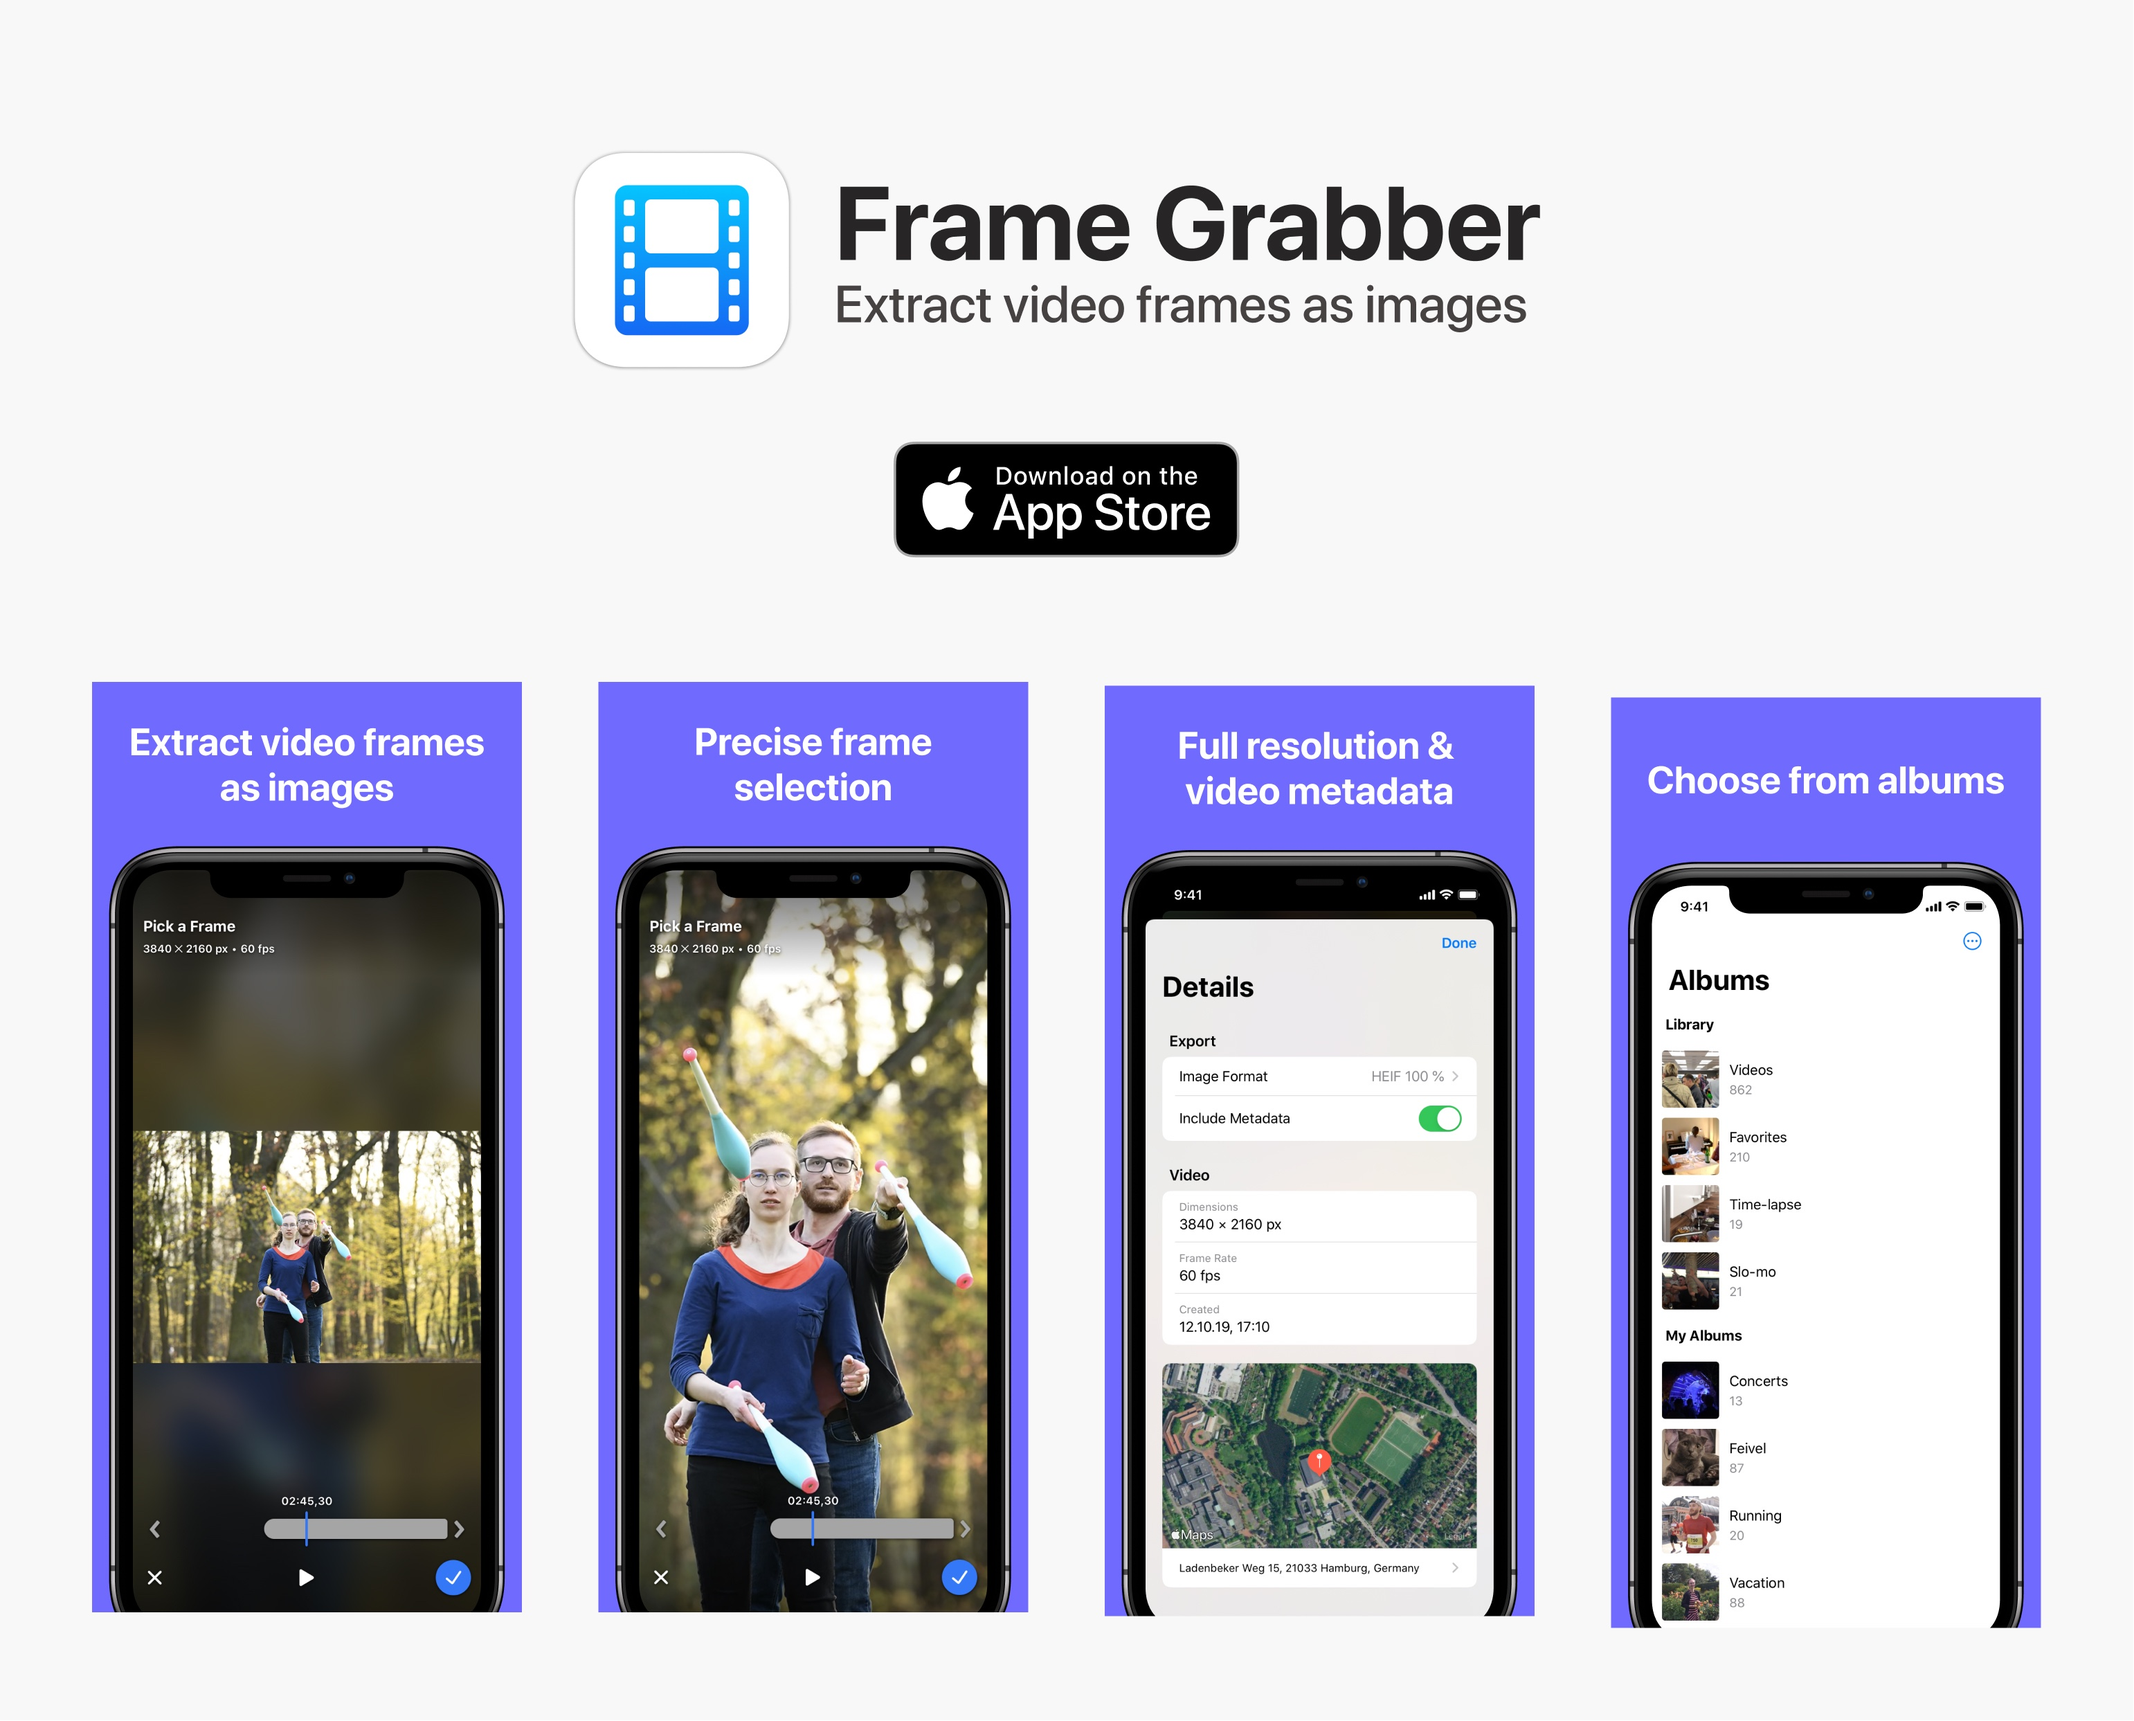
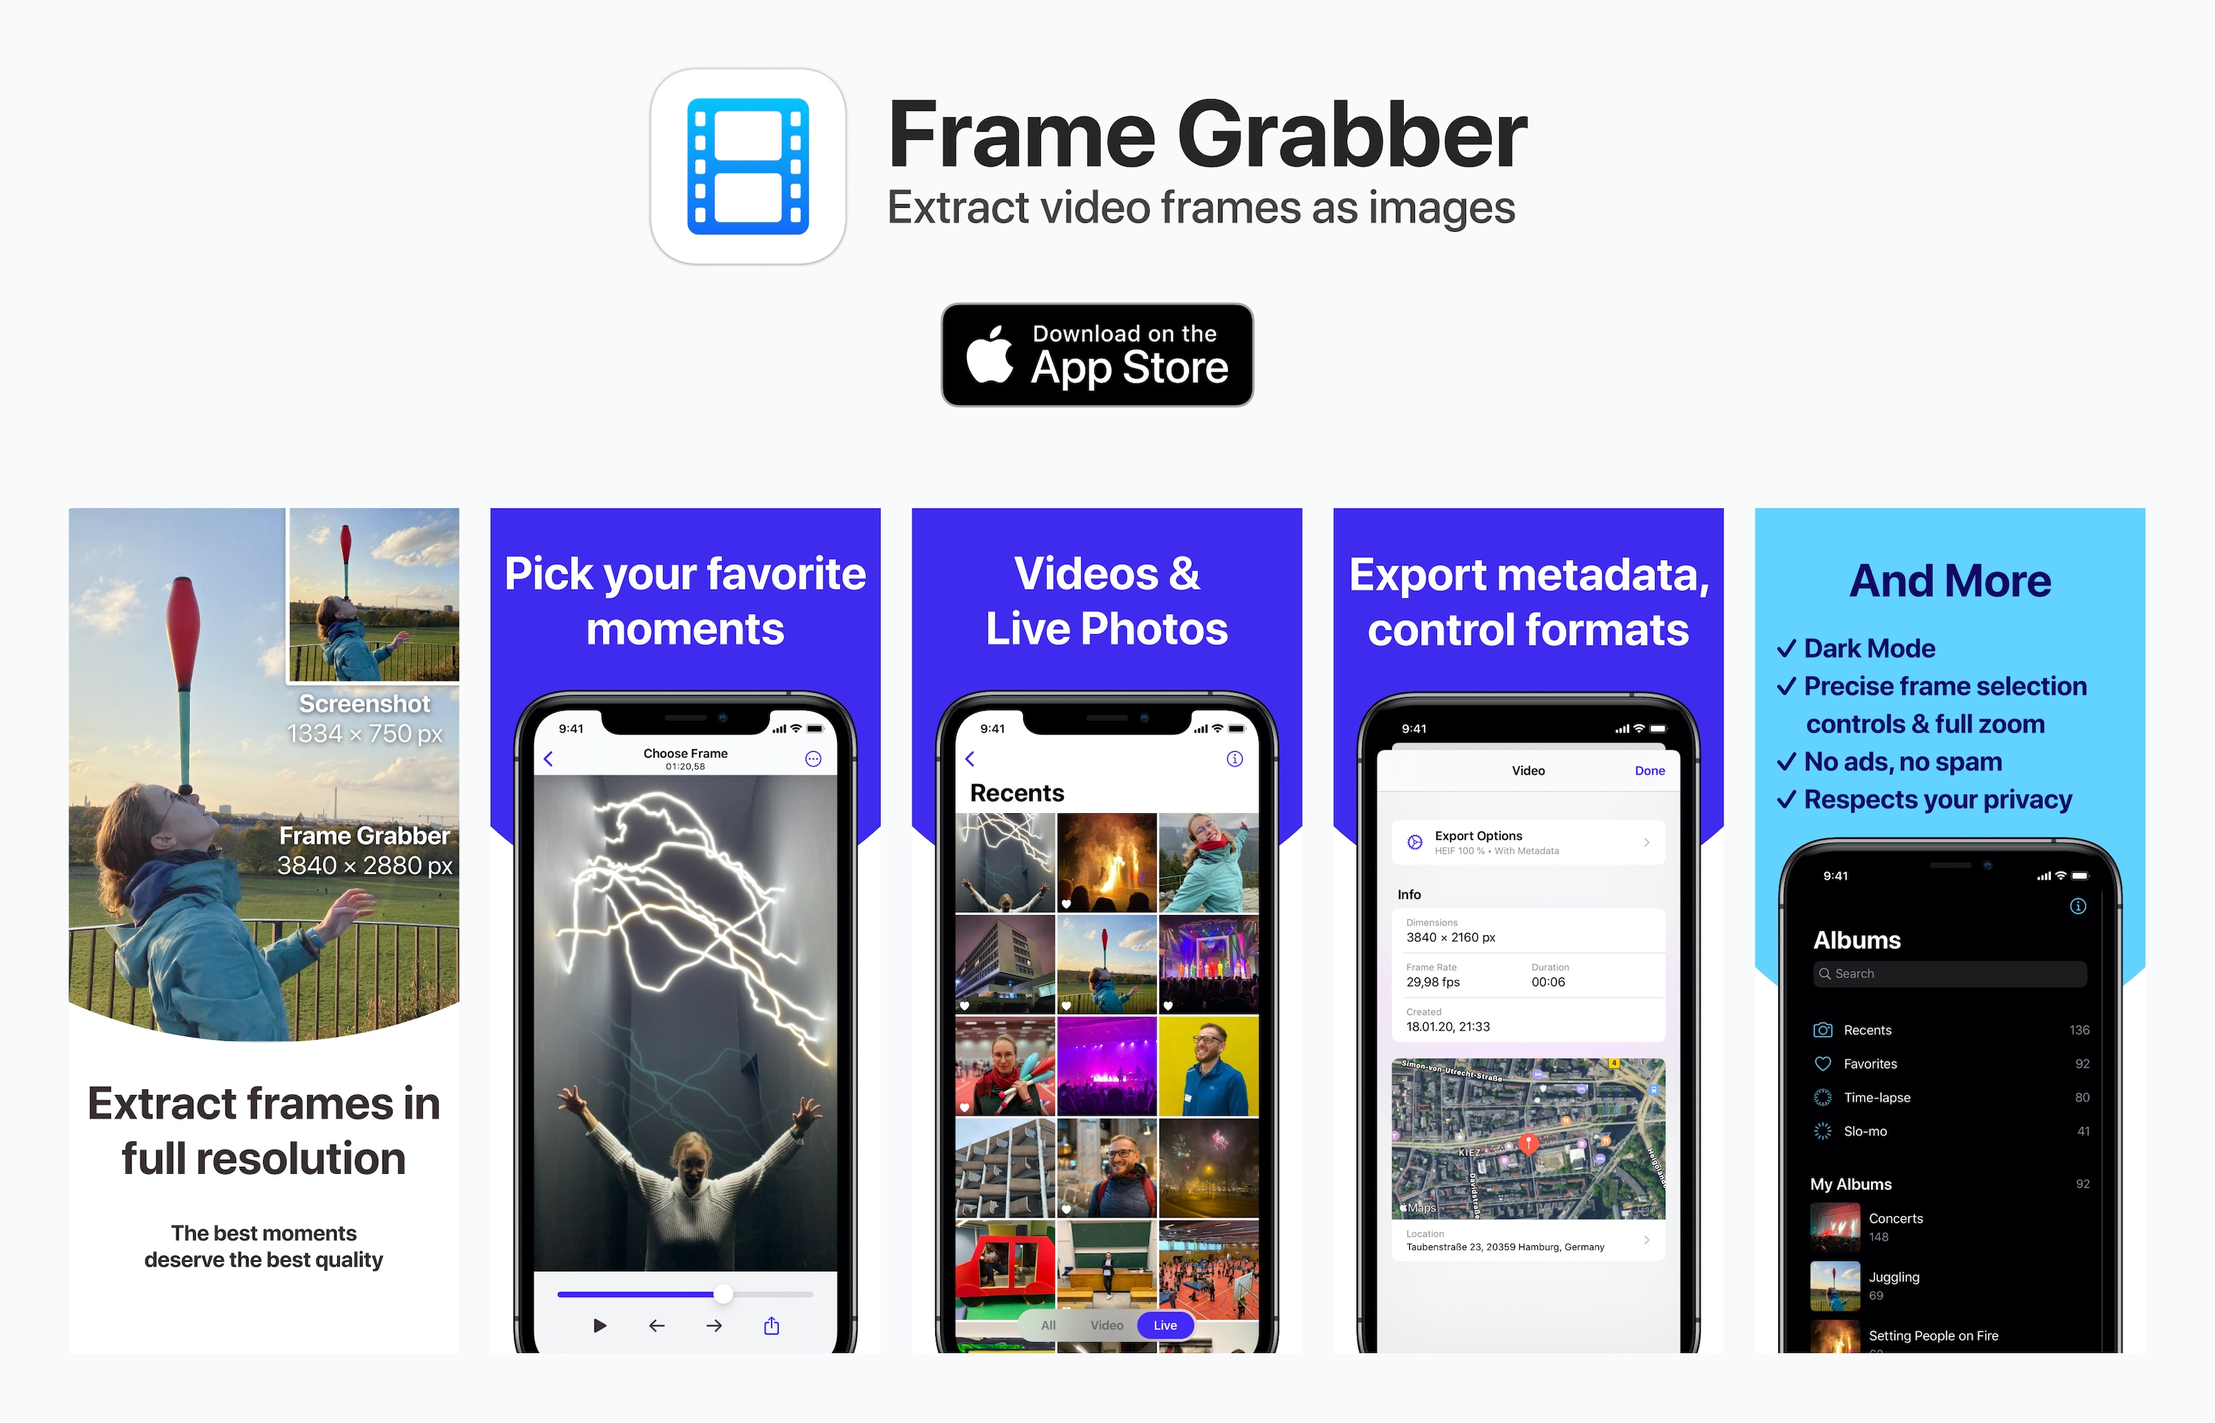
Update readme, screenshots

diff --git a/README.md b/README.md
@@ -2,27 +2,42 @@
     <img src="design/banner.jpg" alt="App Store banner.">
 </a>
 
-[Frame Grabber](https://apps.apple.com/app/frame-grabber/id1434703541) is an iOS app that lets you extract full-resolution video frames as images.
+Frame Grabber is an iOS app that lets you extract full-resolution video and Live Photo frames as images. [You can get it on the App Store here](https://apps.apple.com/app/frame-grabber/id1434703541).
 
-Unlike screenshots, images extracted with Frame Grabber have full resolution, contain video metadata and much more! Perfect to save favorite video moments to your photo library or to share them on social media.
+Unlike screenshots, images extracted with Frame Grabber have full resolution, contain video metadata and much more! Perfect to save your favorite video moments to your photo library or to share them on social media.
 
 ## Features
 
-- Quick and easy to use.
-- Export frames in full resolution.
-- Export video metadata (creation date, geolocation and more).
-- Step frame by frame and zoom in to find the perfect moment.
-- Adjust export format (HEIF, JPG) and compression quality.
+- Quick and easy
+- Export frames in full resolution and quality
+- Works with videos and Live Photos
+- Export metadata like creation date and geolocation
+- Exact frame-by-frame selection and full zoom to find the perfect moment
+- Control the export format (JPG, HEIF) and compression quality
 
-Frame Grabber is completely free with a [focus on privacy](https://arthurhammer.github.io/FrameGrabber/). No ads or trackers.
+Frame Grabber is completely free and respects your privacy.
 
 ## About
 
-I made this app to learn iOS development with Swift. [Try Frame Grabber on the App Store](https://apps.apple.com/app/frame-grabber/id1434703541). Feedback is welcome!
+Frame Graber is my first app!
+
+I made it primarily for two reasons: One, because I've wanted an app like this for the longest time. And two, because it seemed like the perfect project in size to finally learn iOS development and Swift.
+
+I tried to make the app polished and smooth for the user. Besides the UIKit stack in general, there were tons of challenges and things I learned along the way:
+
+- Designing a smooth UI/UX
+- Implementing custom, interactive transitions
+- Implementing custom controls
+- Efficiently generating large numbers of video frames
+- Efficiently filtering PhotosKit photo albums
+- Implementing In-App-Purchases with StoreKit
+- And loooots more!
+
+Feedback is highly appreciated! [Try Frame Grabber on the App Store](https://apps.apple.com/app/frame-grabber/id1434703541) and tell me what you think.
 
 ## Development
 
-The app has no dependencies. Open the project in Xcode and build.
+Open the project in Xcode and build. The app has no dependencies.
 
 ## License
 
